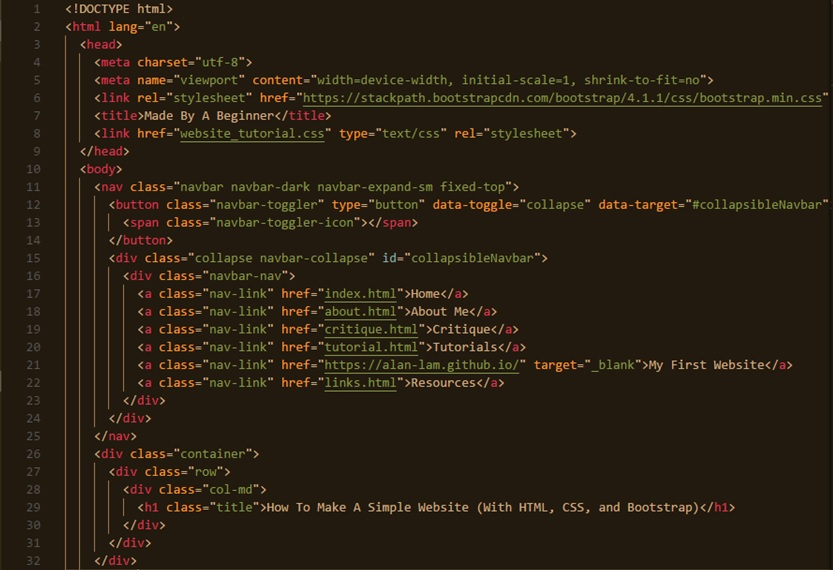
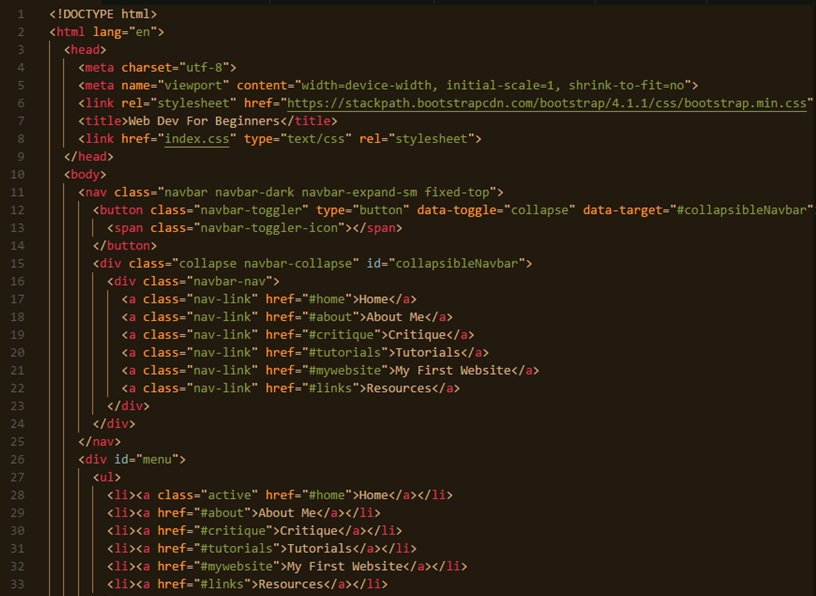
update

Changed region(s): [[0.0, 0.0, 1.0, 1.0], [0.0306, 0.1491, 0.0613, 0.1789]]

diff --git a/website_tutorial.html b/website_tutorial.html
@@ -1,0 +1,64 @@
+<!DOCTYPE html>
+<html lang="en">
+  <head>
+    <meta charset="utf-8">
+    <meta name="viewport" content="width=device-width, initial-scale=1, shrink-to-fit=no">
+    <link rel="stylesheet" href="https://stackpath.bootstrapcdn.com/bootstrap/4.1.1/css/bootstrap.min.css" integrity="sha384-WskhaSGFgHYWDcbwN70/dfYBj47jz9qbsMId/iRN3ewGhXQFZCSftd1LZCfmhktB" crossorigin="anonymous">
+    <title>Web Dev For Beginners</title>
+    <link href="website_tutorial.css" type="text/css" rel="stylesheet">
+  </head>
+  <body>
+    <div id="menu">
+      <ul>
+        <li><a href="#text">Text</a></li>
+        <li><a href="#images">Images</a></li>
+        <li><a href="#divs">Divs</a></li>
+        <li><a href="#css">CSS</a></li>
+      </ul>
+    </div>
+    <div class="jumbotron">
+      <div class="row">
+        <div class="col-sm-7">
+          <h1>How To Make A Very Simple Website (With HTML, CSS, and Bootstrap)</h1>
+          <img class="img-fluid" src="./pictures/website_tutorial/cover_picture.jpg">
+          <p>(For this tutorial, you'll need a text/code editor. A simple text editor like Notepad (Windows) or TextEdit (Mac) suffices. I'll be using Notepad for this tutorial. But code editors, like <a href="https://code.visualstudio.com/" target="_blank">Visual Studio Code</a>, come with helpful features like auto-indenting, auto-complete, and color-coding.)</p>
+          <p>This tutorial is intended to just introduce ideas so you become familiar with them. Other classes, like Codecademy, go much deeper, but it's easier when you're familiar with the concepts.</p>
+          <h3>Rectangles, rectangles, rectangles</h3>
+          <p>A webpage is just a big rectangle with smaller rectangles inside. And inside those smaller rectangles are words, images, and videos.</p>
+          <img class="img-fluid" src="./pictures/website_tutorial/colored_rect.jpg">
+          <p>For example, these are some of the rectangles for this webpage.</p>
+          <p>Rectangles, and the content inside (called elements), are created with code. In particular, HTML, which stands for Hypertext Markup Language.</p>
+          <p>Before moving on, open your text/code editor, create a new file, and save the file as "index.html" (Without the quotes). I also recommend making a new folder on your desktop and moving the file there.</p>
+          <h3 id="text">Text</h3>
+          <p>The two main types of text you're going to see on a website are headings and paragraphs. Headings are the big bold titles and paragraphs are the regular words, like the ones in this sentence.</p>
+          <img class="img-fluid" src="./pictures/website_tutorial/heading.jpg">
+          <p>This is the syntax for creating a heading element. The "&lt;h1&gt;" is called an opening tag. The "&lt;/h1&gt;" is called a closing tag. The "h1" means it is a heading with the biggest size. The numbers range from 1-6 where 1 is the largest and 6 is the smallest. These numbers only apply for headings.</p>
+          <p>Save the file, go to the place where it is saved on your computer, and double click on it. You should see the words "This is a heading" at the top left.</p>
+          <img class="img-fluid" src="./pictures/website_tutorial/paragraph.jpg">
+          <p>Below the heading is the syntax for a paragraph element. The opening tag (&lt;p&gt;) is at the beginning and the closing tag (&lt;/p&gt;) is at the end. As you can guess, the "p" stands for paragraph. If you save your file and open it, you should see the paragraph element below the heading.</p>
+          <h3 id="images">Images</h3>
+          <img class="img-fluid" src="./pictures/website_tutorial/image.jpg">
+          <p>This is the syntax for an image. The "src" is short for "source", which specifies where the image is located. If the image is online, then the src would be the link to that image. If the image is offline (on your computer), then the src would be the path on your computer to that image.</p>
+          <p><a href="https://dl.dropboxusercontent.com/s/9vsl4tbjonrdy7t/panoramic-3049543_1920.jpg?dl=0" target="_blank">Here</a> is a sample image you can use to try. There are two ways to go about this. You can put <code>&lt;img src="https://dl.dropboxusercontent.com/s/9vsl4tbjonrdy7t/panoramic-3049543_1920.jpg?dl=0"&gt;</code> The src is the link to the image because the image is online. On the other hand, if you download it and save it in the same folder as the index.html file, the code for the image would be <code>&lt;img src="panoramic-3049543_1920.jpg"&gt;</code> Here, the image is offline (on your computer) so the src is the path on your computer to the image. Since they are in the same folder, the path is just the name of the image file. If the image isn't in the same folder, then the path would probably be something like "C:\Users\Alan\Pictures\pic.jpg"</p>
+          <h3 id="divs">Divs</h3>
+          <p>"Div" is short for "division". In this case, division means a part of the webpage that has been divided. These are the rectangles I mentioned earlier. One way of looking at this is like imagining the webpage as a big rectangle. Adding divs is like adding smaller rectangles inside the big rectangle.</p>
+          <img class="img-fluid" src="./pictures/website_tutorial/div.jpg">
+          <p>Here is the syntax for creating a div. By convention, everything inside a div is indented by 2 spaces. If you save the file and open it, nothing should change. That is because divs don't add anything visual. They are used to place elements that should logically be together. For example, the menu on the right is inside it's own div because it contains links to places on this page. So it is logical to place them together inside a div. The footer at the bottom is in its own div because it is separate from the rest of the elements on this webpage.</p> <p>Because they are related, you would want related elements to look the same. For example, for this webpage, the instructional text is white and menu links are blue. Putting logically related elements inside a div makes it easy to style them so they look the same.</p>
+          <h3 id="css">CSS</h3>
+        </div>
+      </div>
+    </div>
+    <div class="footer">
+      <div class="container">
+        <div class="row">
+          <div class="col-lg">
+            <p>Alan Lam</p>
+          </div>
+        </div>
+      </div>
+    </div>
+    <script src="https://code.jquery.com/jquery-3.3.1.slim.min.js" integrity="sha384-q8i/X+965DzO0rT7abK41JStQIAqVgRVzpbzo5smXKp4YfRvH+8abtTE1Pi6jizo" crossorigin="anonymous"></script>
+    <script src="https://cdnjs.cloudflare.com/ajax/libs/popper.js/1.14.3/umd/popper.min.js" integrity="sha384-ZMP7rVo3mIykV+2+9J3UJ46jBk0WLaUAdn689aCwoqbBJiSnjAK/l8WvCWPIPm49" crossorigin="anonymous"></script>
+    <script src="https://stackpath.bootstrapcdn.com/bootstrap/4.1.1/js/bootstrap.min.js" integrity="sha384-smHYKdLADwkXOn1EmN1qk/HfnUcbVRZyYmZ4qpPea6sjB/pTJ0euyQp0Mk8ck+5T" crossorigin="anonymous"></script>
+  </body>
+</html>

diff --git a/github_tutorial.html b/github_tutorial.html
@@ -1,0 +1,34 @@
+<!DOCTYPE html>
+<html lang="en">
+  <head>
+    <meta charset="utf-8">
+    <meta name="viewport" content="width=device-width, initial-scale=1, shrink-to-fit=no">
+    <link rel="stylesheet" href="https://stackpath.bootstrapcdn.com/bootstrap/4.1.1/css/bootstrap.min.css" integrity="sha384-WskhaSGFgHYWDcbwN70/dfYBj47jz9qbsMId/iRN3ewGhXQFZCSftd1LZCfmhktB" crossorigin="anonymous">
+    <title>Web Dev For Beginners</title>
+    <link href="github_tutorial.css" type="text/css" rel="stylesheet">
+  </head>
+  <body>
+    <div class="jumbotron">
+      <div class="row">
+        <div class="col-sm-7">
+          <h1>How To Set Up GitHub To Host Your Website (And Set Up Visual Studio Code)</h1>
+          <img class="img-fluid" src="./pictures/github_tutorial/github.jpg">
+          <p>(This tutorial is intended for those who want to have an actual online website. If you want to just learn the coding part of making a website, I recommend looking at the other tutorial instead.)</p>
+          <p>Sometimes the hardest part of programming is just getting your coding environment setup, especially since there are a lot of different tools and services out there. For this tutorial, you'll need a <a href="https://github.com/" target="_blank">GitHub account</a> and <a href="https://code.visualstudio.com/" target="_blank">Visual Studio Code.</a></p>
+        </div>
+      </div>
+    </div>
+    <div class="footer">
+      <div class="container">
+        <div class="row">
+          <div class="col-lg">
+            <p>Alan Lam<p>
+          </div>
+        </div>
+      </div>
+    </div>
+    <script src="https://code.jquery.com/jquery-3.3.1.slim.min.js" integrity="sha384-q8i/X+965DzO0rT7abK41JStQIAqVgRVzpbzo5smXKp4YfRvH+8abtTE1Pi6jizo" crossorigin="anonymous"></script>
+    <script src="https://cdnjs.cloudflare.com/ajax/libs/popper.js/1.14.3/umd/popper.min.js" integrity="sha384-ZMP7rVo3mIykV+2+9J3UJ46jBk0WLaUAdn689aCwoqbBJiSnjAK/l8WvCWPIPm49" crossorigin="anonymous"></script>
+    <script src="https://stackpath.bootstrapcdn.com/bootstrap/4.1.1/js/bootstrap.min.js" integrity="sha384-smHYKdLADwkXOn1EmN1qk/HfnUcbVRZyYmZ4qpPea6sjB/pTJ0euyQp0Mk8ck+5T" crossorigin="anonymous"></script>
+  </body>
+</html>

diff --git a/website_tutorial.css b/website_tutorial.css
@@ -1,0 +1,40 @@
+body, html {
+  margin: 0;
+  background-color: black;
+}
+
+.jumbotron {
+  background: #348F50;
+  background: -webkit-linear-gradient(to right, #56B4D3, #348F50);
+  background: linear-gradient(to right, #56B4D3, #348F50);
+  color: white;
+  margin: 0;
+}
+
+a {
+  color: darkblue;
+}
+
+code {
+  background-color: white;
+}
+
+#menu {
+  position: fixed;
+  z-index: 1;
+  right: 10%;
+  top: 30%;
+}
+
+li {
+  list-style-type: none;
+  margin-bottom: 15%;
+}
+
+a:hover {
+  color: white;
+}
+
+.active, #menu ul li a:hover  {
+  background-color: black;
+}

diff --git a/github_tutorial.css b/github_tutorial.css
@@ -1,0 +1,13 @@
+body, html {
+  height: 100%;
+  margin: 0;
+  background-color: black;
+}
+
+.jumbotron {
+  background: #34e89e;
+  background: -webkit-linear-gradient(to left, #0f3443, #34e89e);
+  background: linear-gradient(to left, #0f3443, #34e89e);
+  color: white;
+  margin: 0;
+}

diff --git a/index.css b/index.css
@@ -180,17 +180,3 @@ a:hover {
     visibility: hidden;
   }
 }
-
-table {
-  border: 2px solid green;
-}
-
-tr {
-  border: 2px solid blue;
-  vertical-align: top;
-}
-
-td {
-  width: 100%;
-  border: 2px solid red;
-}
